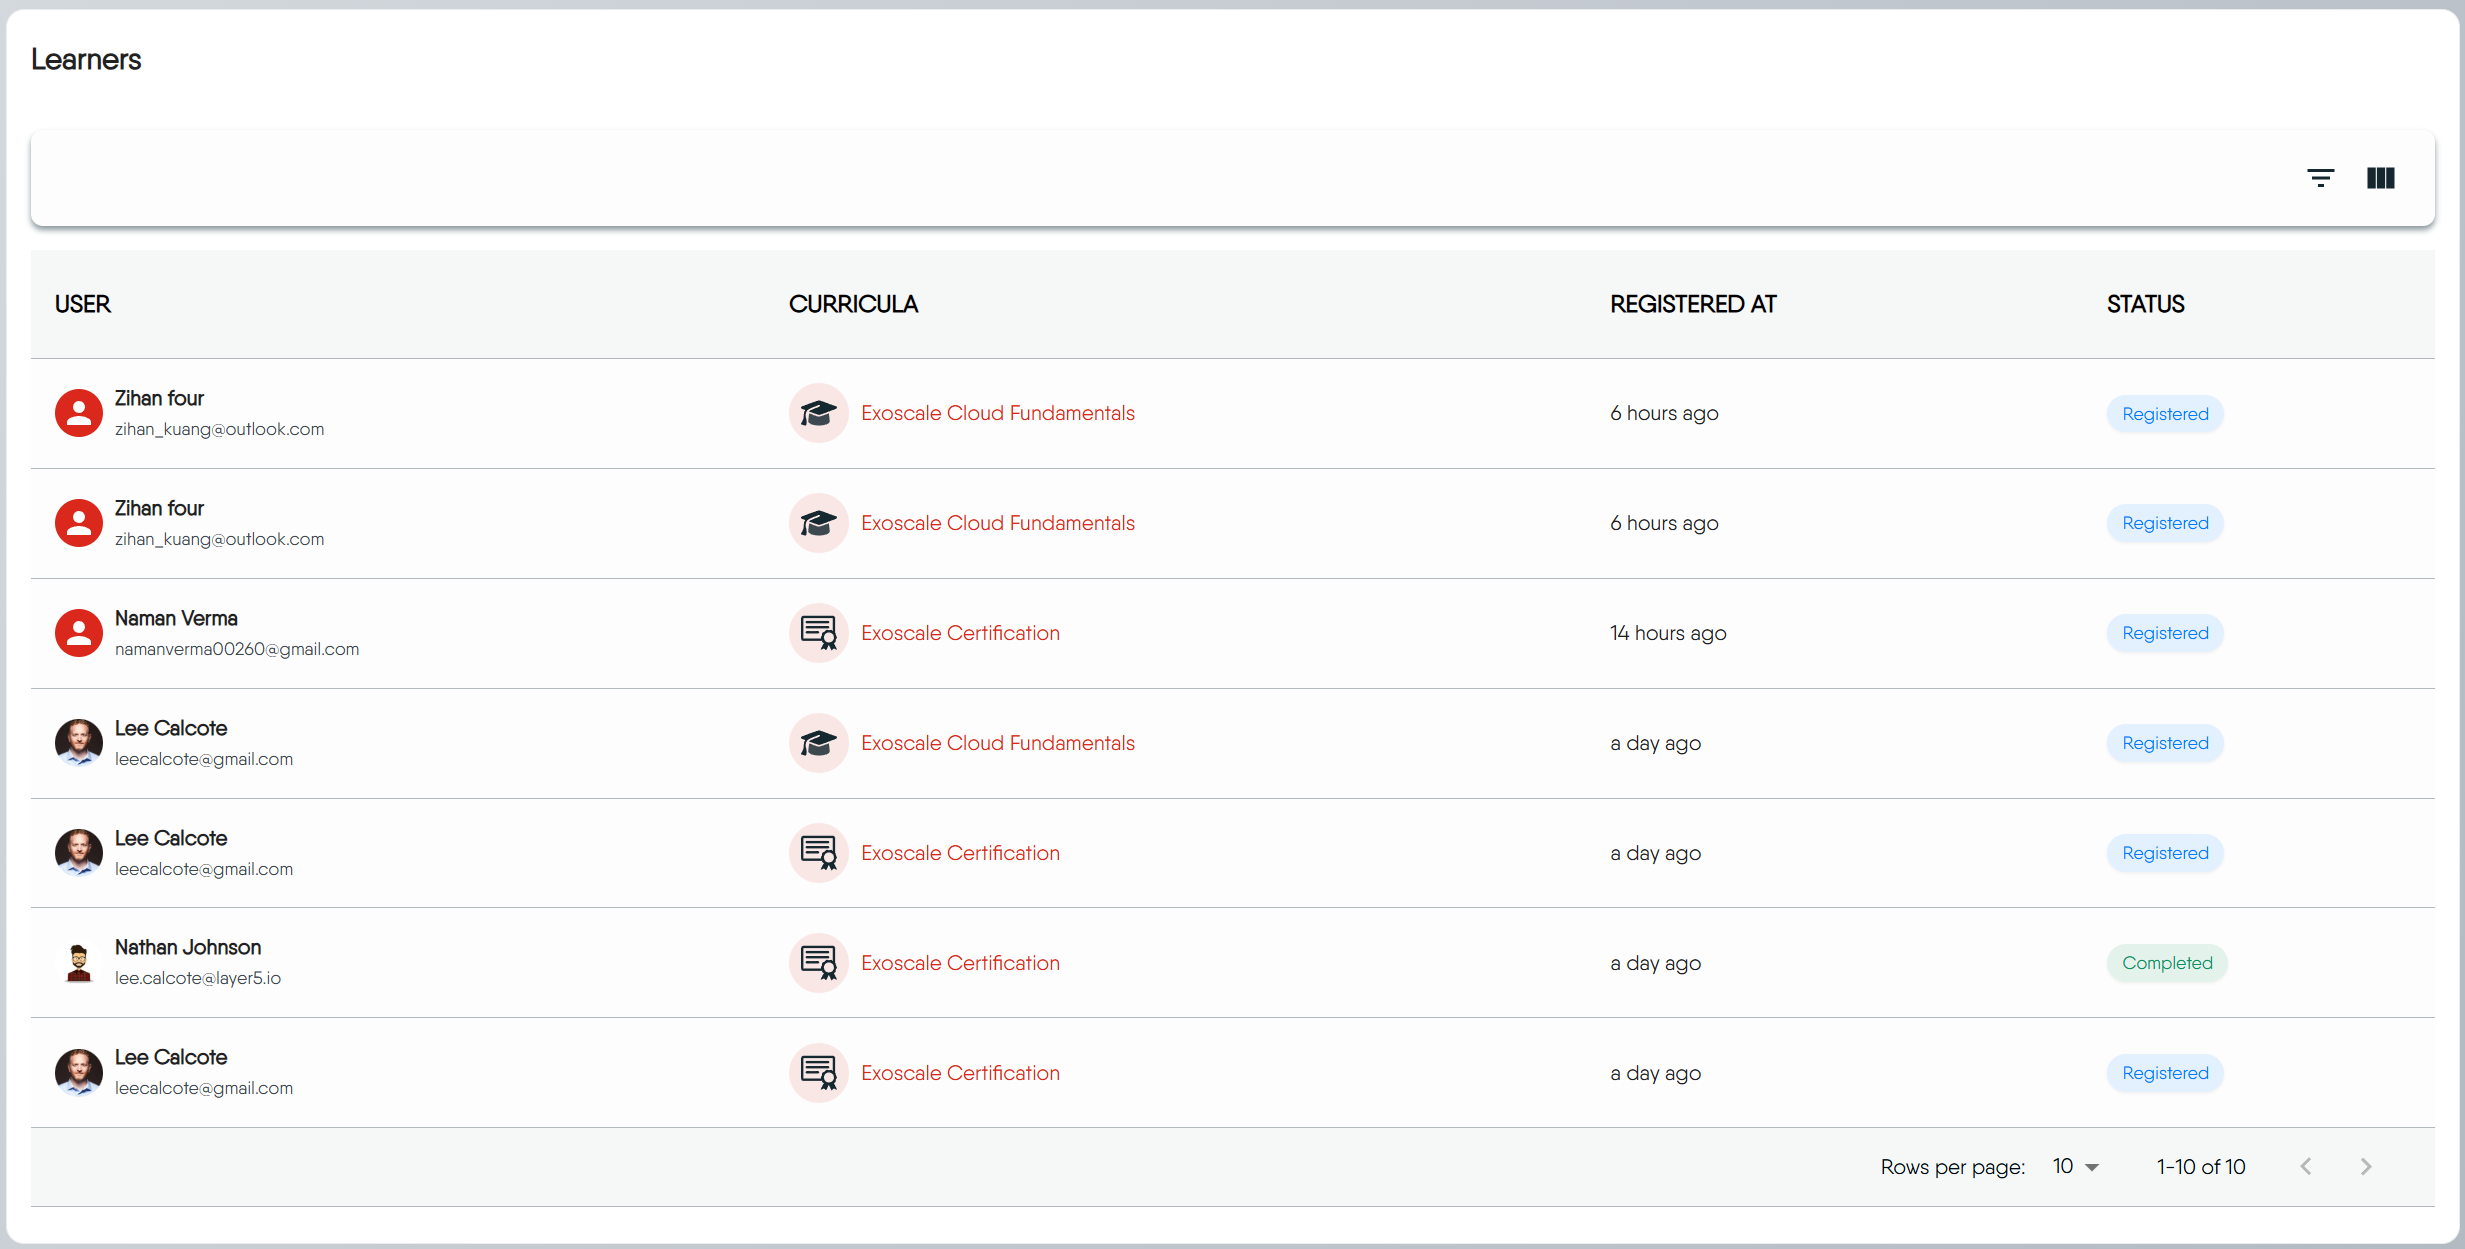
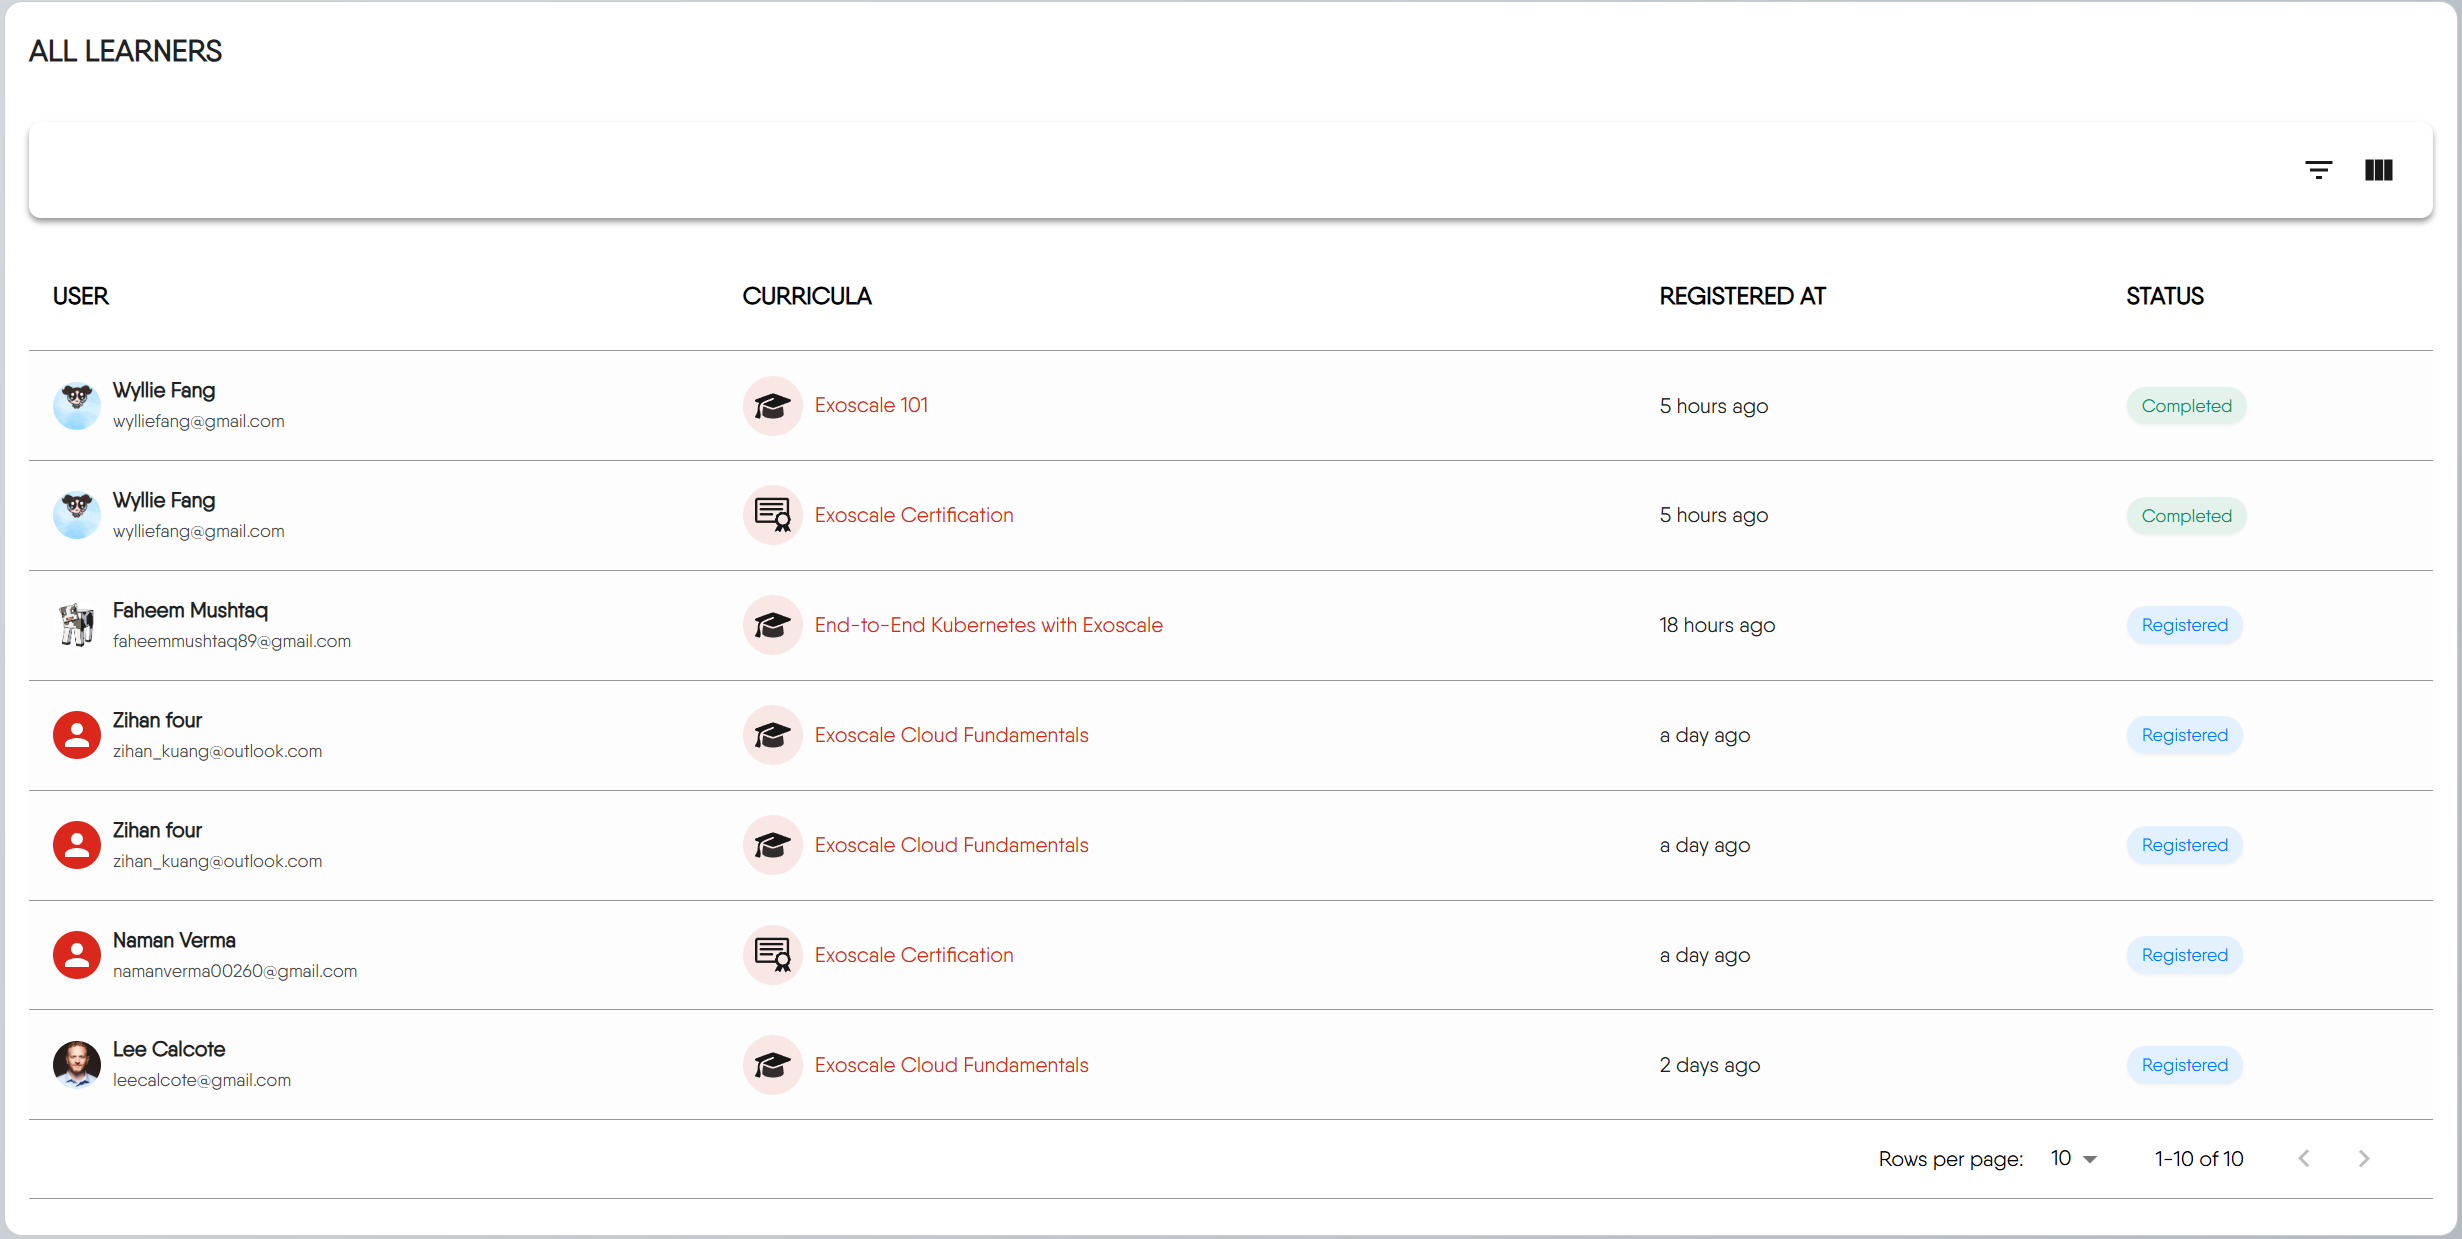
update for new UI

diff --git a/content/en/cloud/academy/creating-content/instructor-console-guide/index.md b/content/en/cloud/academy/creating-content/instructor-console-guide/index.md
@@ -7,80 +7,82 @@ categories: [Academy]
 tags: [Academy]
 ---
 
-The Instructor Console is your central command center for the Layer5 Academy. It's where you can get a bird's-eye view of your educational content and dive deep into how learners are engaging with it. Here, you can track learner progress, analyze test performance, and manage all of your academy's content and metrics.
+The [Instructor Console](https://cloud.layer5.io/academy/instructors-console) serves as your command center for the Layer5 Academy, providing both a comprehensive overview of your content and detailed insights into learner engagement.
 
 ### Gaining Access
 
-To view the Instructor Console, you must be assigned the Academy Admin role.
+To view the Instructor Console, you must have the **Academy Admin** role or be an **organization admin**.
 
 {{< alert type="info" title="Enterprise Feature" >}}
 The Instructor Console and custom academy features are available exclusively for organizations on an Enterprise plan. [Learn more](https://layer5.io/pricing)
 {{< /alert >}}
 
-If you are part of an organization with an Enterprise plan but do not see the console in your navigation, you'll need to request access. Reach out to your organization's administrator. Ask them to assign the **Academy Admin** role to your user account.
-
-Once the role is assigned, the Instructor Console will become visible in your navigation menu.
-
-## Layout Overview
-
-The Instructor Console is organized into several key sections that provide comprehensive insights into your academy's performance and learner engagement.
-
-### Core Metrics
-
-These four cards at the top provide your most immediate, high-level statistics:
-
-- **Content Version**: This shows the version of the academy module your learners are currently using.
-- **Total Learners**: A running total of every unique user who has ever registered for any of your content.
-- **Active Learners**: The number of learners who are currently "in-progress." They have registered for content but have not yet completed it.
-- **Total Test Taken**: The total number of times any test has been attempted across all your content. This counts retakes as well.
-
-![Core Metrics Dashboard](./images/core-metrics.png)
-
-
 ### Using the Content Creation Tool
 
-The Instructor Console includes a Content Creation Tool to kickstart the development of new learning materials. It's a simple, guided process to help you generate the initial configuration for your content.
+The Instructor Console includes a Content Creation Tool to help you develop new learning materials. It's a simple, guided process that generates the initial configuration for your content.
 
-This tool guides you through three quick steps to generate your content's boilerplate configuration.
+This tool walks you through three quick steps to create your content's boilerplate configuration.
 
 ![Content Creation Tool](./images/create-content-model.gif)
 
+1.  **Basic Information**: First, you'll provide the essential details for your new content, such as its **Content Type** (Learning Path/Certification/Challenge), **Title**, and **Description**.
 
-1.  **Basic Information**: First, you'll provide the essential details for your new content, such as its **Content Type** (Learning Path/Certification/challenge), **Title**, and **Description**.
-
-| Feature | Learning Path | Challenge | Certification |
-| :--- | :--- | :--- | :--- |
-| Primary Goal | To teach and guide through a comprehensive curriculum. | To solve a specific, hands-on problem in a competitive scenario. | To validate and prove existing knowledge through formal examination. |
-| Main Content | Lessons, informational pages, labs, and progressive assessments. | A set of instructions for a practical task and a validation mechanism. | A series of exams, potentially with a brief study guide. |
-| Outcome | Acquired knowledge and skills. | A score, rank status. | An optional, paid official certificate and a verifiable badge.|
+    | Feature | Learning Path | Challenge | Certification |
+    | :--- | :--- | :--- | :--- |
+    | Primary Goal | To teach and guide through a comprehensive curriculum. | To solve a specific, hands-on problem in a competitive scenario. | To validate and prove existing knowledge through formal examination. |
+    | Main Content | Lessons, informational pages, labs, and progressive assessments. | A set of instructions for a practical task and a validation mechanism. | A series of exams, potentially with a brief study guide. |
+    | Outcome | Acquired knowledge and skills. | A score and rank status. | An optional, paid official certificate and a verifiable badge.|
 
 2.  **Content Details**: Next, you'll refine additional properties for the content.
 
-3.  **Copy Template**: Finally, the Creation Tool presents you with a **"Generated Front Matter & Setup Guide"**. You will copy this YAML configuration and place it at the top of the corresponding `_index.md` file in your content repository.
+3.  **Copy Template**: Finally, the Creation Tool presents you with a **"Generated Front Matter & Setup Guide"**. You'll copy this YAML configuration and place it at the top of the corresponding `_index.md` file in your content repository.
 
 {{< alert type="info" title="Console Creation Tool vs. Full Guides" >}}
-Think of the console's creation tool as a 'quick start' generator. It generates the necessary configuration boilerplate, but the detailed work of writing, structuring files, and publishing your content is done in your Git repository. For that, you'll need to follow our [comprehensive guides]().
+Think of the console's creation tool as a 'quick start' generator. It generates the necessary configuration boilerplate, but the detailed work of writing, structuring files, and publishing your content is done in your Git repository. For that, you'll need to follow our [comprehensive guides](/cloud/academy/creating-content/).
 {{< /alert >}}
 
-### Content and Registration Breakdowns
+## Understanding the Dashboard
 
-![Content Statistics Dashboard](./images/content-stats.png)
+Below the creation tool is the main dashboard, which provides an overview of your academy's statistics through a series of widgets.
 
-This section offers a more granular look at your content's structure and your learners' overall status.
+### Core Metrics
 
-  - **Content Stats**: This card gives you a quick count of the different types of content you've published. Each category is interactive; clicking on one will take you to the Academy Catalog, pre-filtered to show all your content of that type.
+The three cards display your most important, high-level statistics:
 
-  - **Registration Status**: This donut chart provides an immediate visual summary of your learner base. It shows the proportion of learners who are currently working through content (`registered`) compared to those who have successfully finished their content (`completed`).
+- **Total Learners**: A running count of every unique user who has registered for any of your content.
+- **Active Learners**: The number of learners currently working through content who haven't completed it yet.
+- **Total Test Taken**: The total number of test attempts across all your content, including retakes.
 
-  - **Content Metrics**: Think of this as a leaderboard for your content. It lists your content and ranks them by the total number of registrations, giving you a clear view of what learners find most engaging. Each title is a direct link, allowing you to navigate straight to it.
+![Core Metrics Dashboard](./images/core-metrics.png)
 
-### The All Learners Report
+### Content Details
 
-The Learners section provides a detailed, interactive table that allows you to track individual progress, see who is taking which content, and get a granular view of your learner base.
+This widget provides a quick inventory of your academy's content:
+
+- **Content Version**: Shows the current version of the academy module your learners are using.
+- **Content Stats**: Shows a quick count of the different types of content you've published. Each category is interactive; clicking on one will take you to the Academy Catalog, pre-filtered to show all your content of that type.
+
+![Content Details](./images/content-details.png)
+
+### Learner Registration
+
+This donut chart provides an immediate visual summary of your learner base. It shows the proportion of learners who are currently working through content (`registered`) compared to those who have successfully finished their content (`completed`).
+
+![Learner Registration](./images/learner-registration.png)
+
+### Content Metrics
+
+It lists your content and ranks them by the total number of registrations, giving you a clear view of what learners find most engaging. Each title is a direct link, allowing you to navigate straight to it.
+
+![Content Metrics](./images/content-metrics.png)
+
+### All Learners Report
+
+The All Learners section provides a detailed, interactive table that allows you to track individual progress, see who is taking which content, and get a granular view of your learner base.
 
 ![All Learners Report](./images/learners.png)
 
-**Understanding the Table**
+#### Understanding the Table
 
 Each row in the table represents a single user's registration for a specific content. Here's what each column means:
 
@@ -92,34 +94,34 @@ Each row in the table represents a single user's registration for a specific con
     -   `Completed` (Green): The learner has successfully finished all required parts of the content.
     -   `Withdrawn` (Red): The learner has unenrolled from the content.
 
-**Filtering and Finding Learners**
+#### Filtering and Finding Learners
 
-To find specific groups of learners, use the filter control located at the top-right of the table.
+To find specific groups of learners, use the filter control at the top-right of the table.
 
 -   **Filter by Content Type**: Want to see everyone enrolled only in Certifications? Select `Certification` from the 'Content Type' filter.
 -   **Filter by Status**: Need a list of everyone who has successfully finished content? Select `Completed` from the 'Status' filter.
 
-**Customizing Your View**
+#### Customizing Your View
 
-To tailor the report to your needs, you can customize which columns are visible. Click the **View Columns** button at the top-right of the table.
+You can customize which columns are visible to tailor the report to your specific needs. Click the **View Columns** button at the top-right of the table. A dropdown menu will appear, allowing you to check or uncheck columns to show or hide them.
 
-A dropdown menu will appear, allowing you to check or uncheck columns to show or hide them. This is particularly useful for simplifying the view to focus on specific data.
+![Filtering](./images/filter.png)
 
-**Navigating Through Pages**
+#### Navigating Through Pages
 
-When you have a large number of registrations, the report is split into multiple pages. Use the controls at the bottom-right of the table to navigate:
+If there are a large number of learner registrations, the report is split into multiple pages. Use the controls at the bottom of the table to navigate through the data:
 
-**Rows per page**: Select how many records you want to see on a single page (e.g., 10, 25, 50).
+**Rows per page**: Choose how many records to display on each page (e.g., 10, 25, 50).
 
 ### Analyzing Test Performance
 
 The final section is dedicated to analyzing the performance of your assessments. 
 
+![Test Statistics Overview](./images/test-stats.png)
+
 #### Test Stats
 
-The statistics on the left provide a high-level summary of all test activities in your academy.
-
-![Test Statistics Overview](./images/test-stats.png)
+These statistics provide a high-level summary of all test activities in your academy.
 
 -   **Pass/Fail Summary Bar:** This bar chart gives you an at-a-glance comparison of the total number of passed attempts (green) versus failed attempts (red) across all tests.
 
@@ -128,21 +130,21 @@ The statistics on the left provide a high-level summary of all test activities i
     -   **Easiest Test:** The quiz with the highest pass-to-fail ratio.
     -   **Most Attempted Test:** The quiz that learners have attempted the most times, regardless of the outcome.
 
-#### Detailed Test Metrics
+#### Test Metrics
 
-The **Test Metrics** list on the right provides a detailed performance breakdown for each individual test. Each test title in this list is a clickable link that will take you directly to that assessment.
+The **Test Metrics** list provides a detailed performance breakdown for each individual test. Each test title in this list is a clickable link that will take you directly to that assessment.
 
-The percentage on the far right (e.g., `33%`) shows the overall pass rate for that specific test.
+The percentage (e.g., `33%`) shows the overall pass rate for that specific test.
 
 {{< alert type="info" title="Identifying Problem Areas" >}}
-Use this list to quickly identify which specific exams are causing the most trouble for your learners. A low pass rate on a particular quiz might indicate that the source material needs clarification or that the questions themselves are unclear.
+Use this list to quickly identify which specific assessments are causing the most trouble for your learners. A low pass rate on a particular assessment might indicate that the source material needs clarification or that the questions themselves are unclear.
 {{< /alert >}}
 
 ## Frequently Asked Questions
 
 <details>
 <summary>I'm my organization's administrator. Can I assign Academy Admin roles?</summary>
-Yes, you can assign Academy Admin roles to users within your organization. As an administrator, you have the ability to manage user permissions and roles through your organization's user management system.
+Yes, you can assign Academy Admin roles to users within your organization. As an administrator, you have the ability to manage user permissions and roles in [user page](https://cloud.layer5.io/identity/users).
 </details>
 
 <details>
